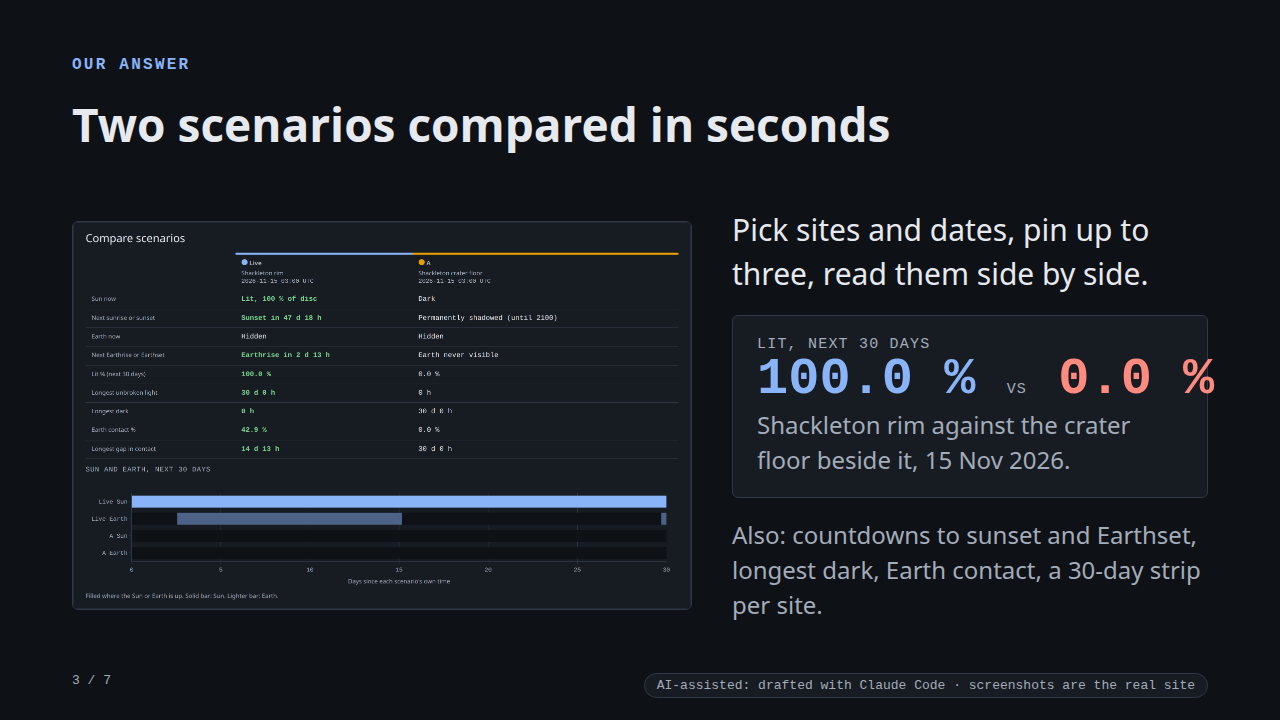
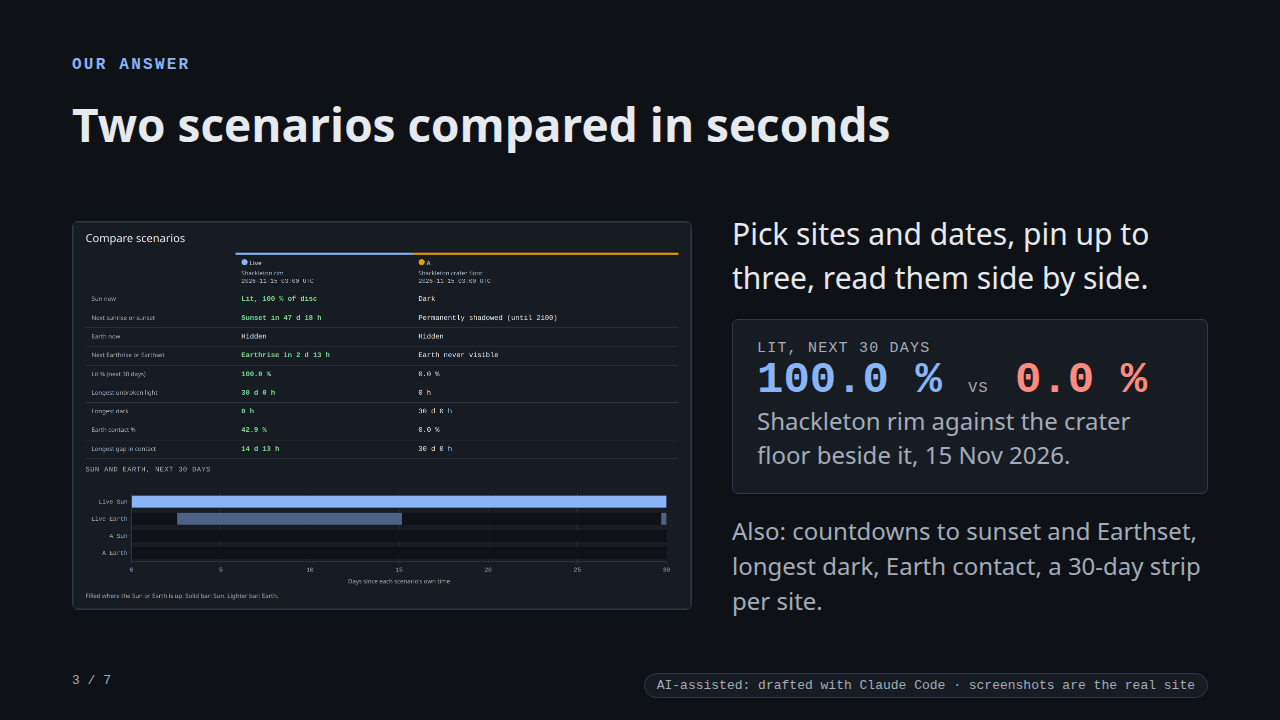
T17: slide 3's 0.0 % inside its card

diff --git a/pitch/slides.html b/pitch/slides.html
@@ -92,7 +92,7 @@
     <div class="col">
       <p class="lead">Pick sites and dates, pin up to three, read them side by side.</p>
       <div class="card"><div class="label">Lit, next 30 days</div>
-        <div class="big"><span class="accent">100.0 %</span> <span class="label">vs</span> <span class="bad">0.0 %</span></div>
+        <div class="big" style="font-size:44px"><span class="accent">100.0 %</span> <span class="label">vs</span> <span class="bad">0.0 %</span></div>
         <p>Shackleton rim against the crater floor beside it, 15 Nov 2026.</p></div>
       <p>Also: countdowns to sunset and Earthset, longest dark, Earth contact, a 30-day strip per site.</p>
     </div>
